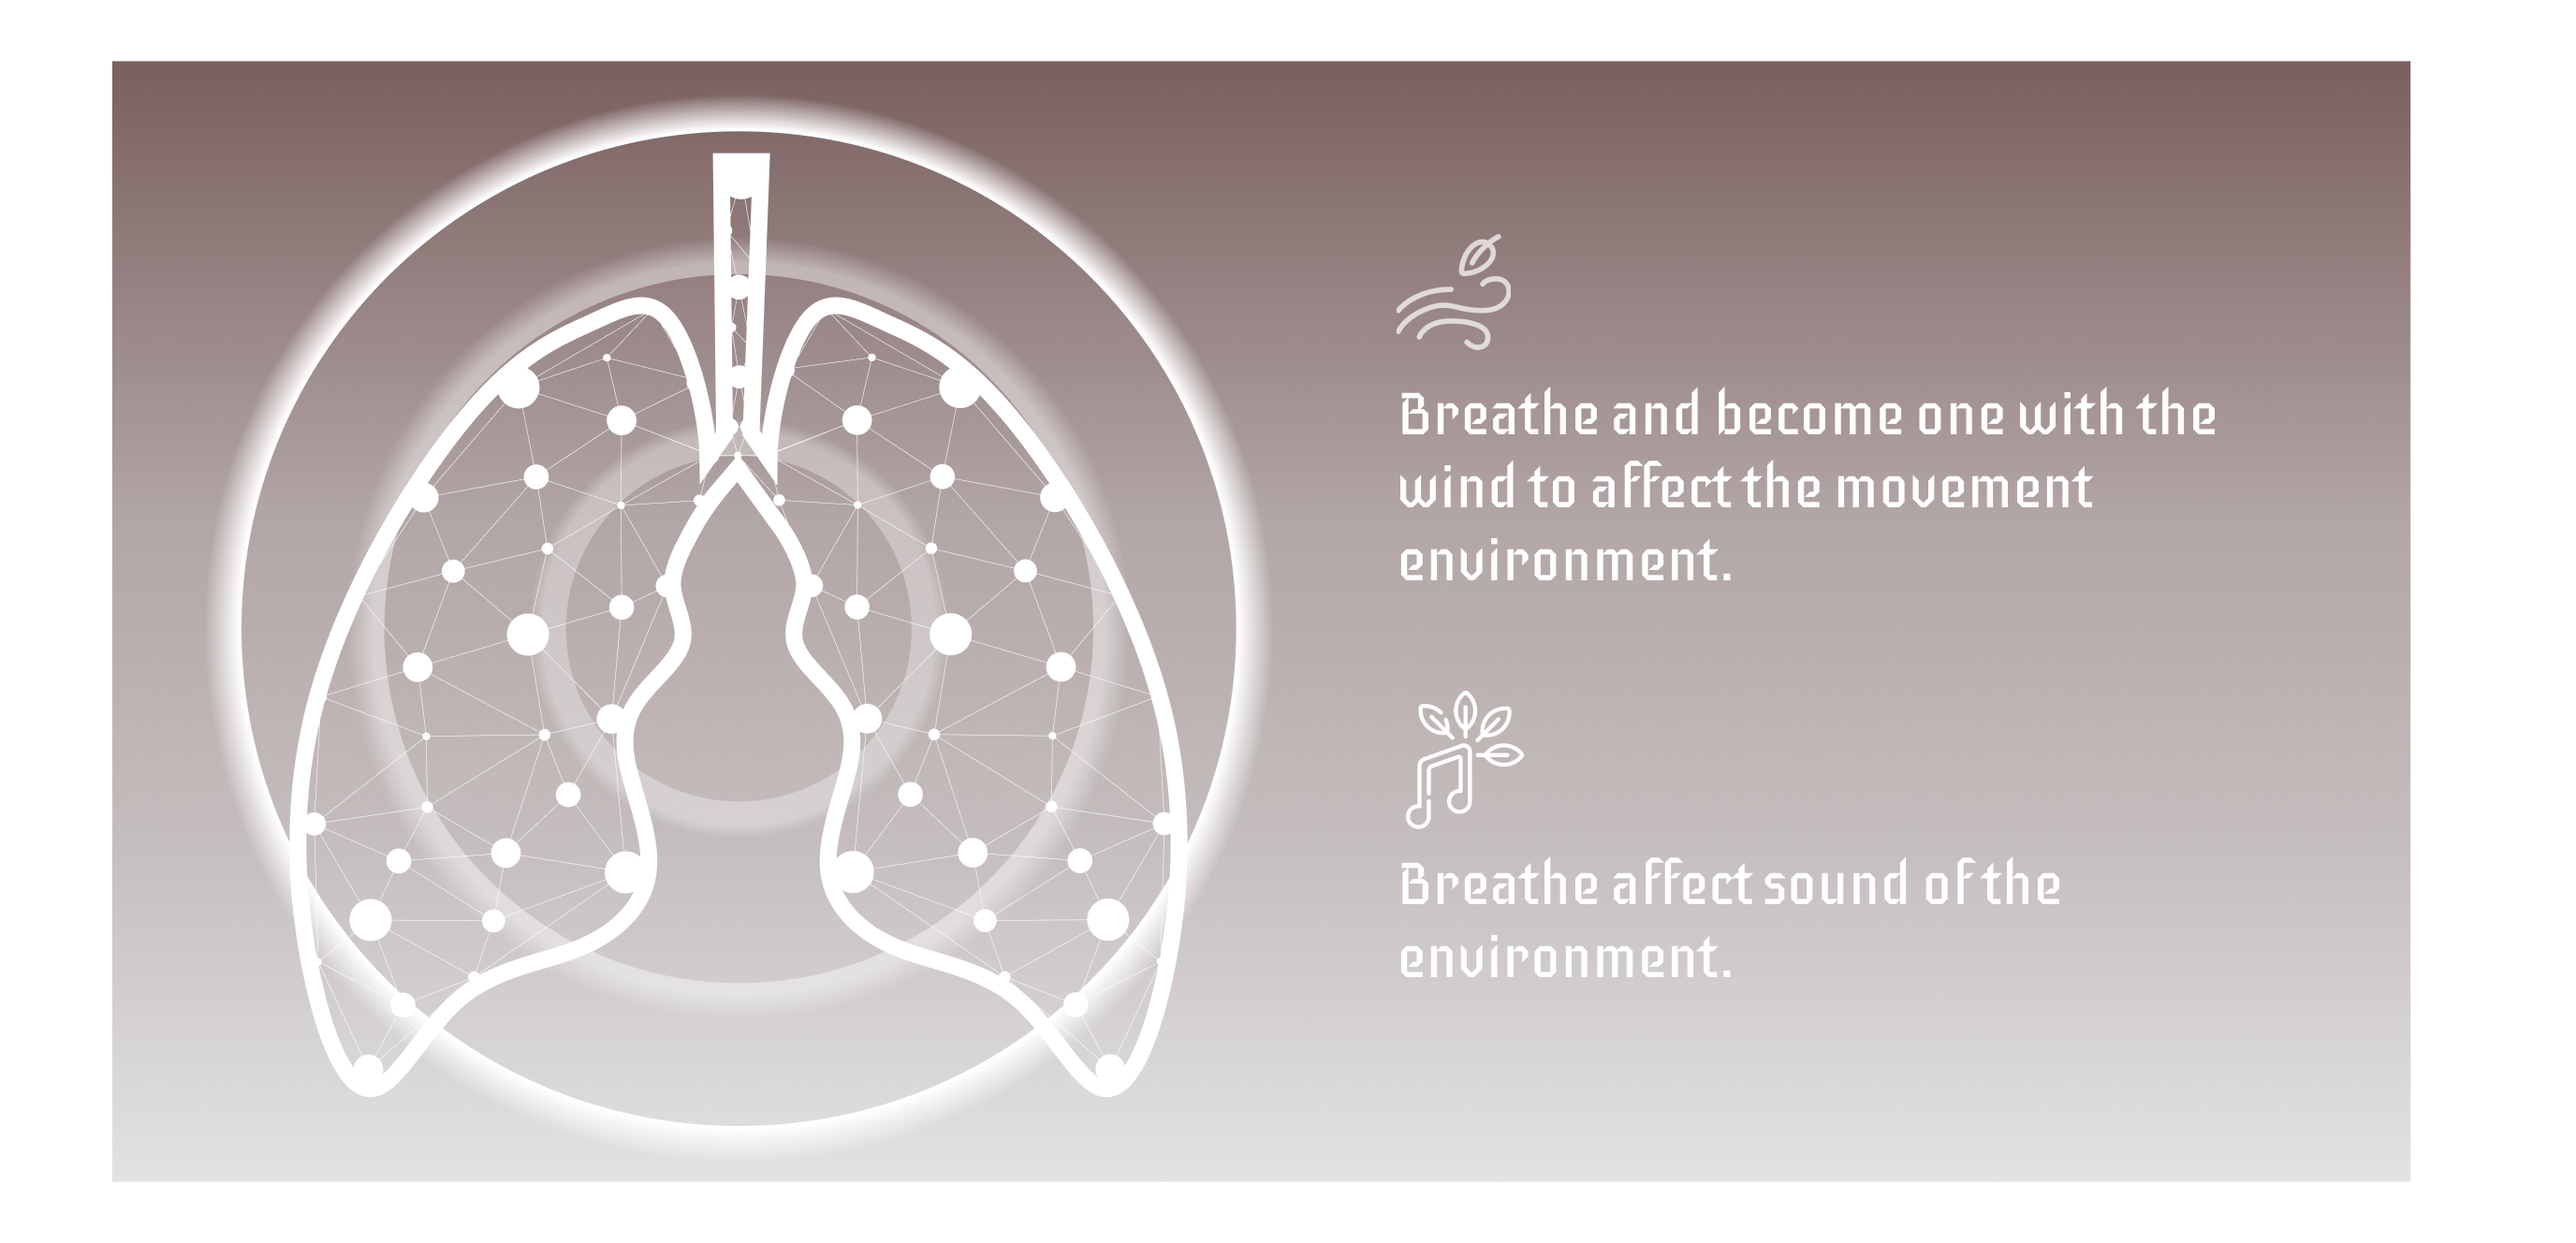
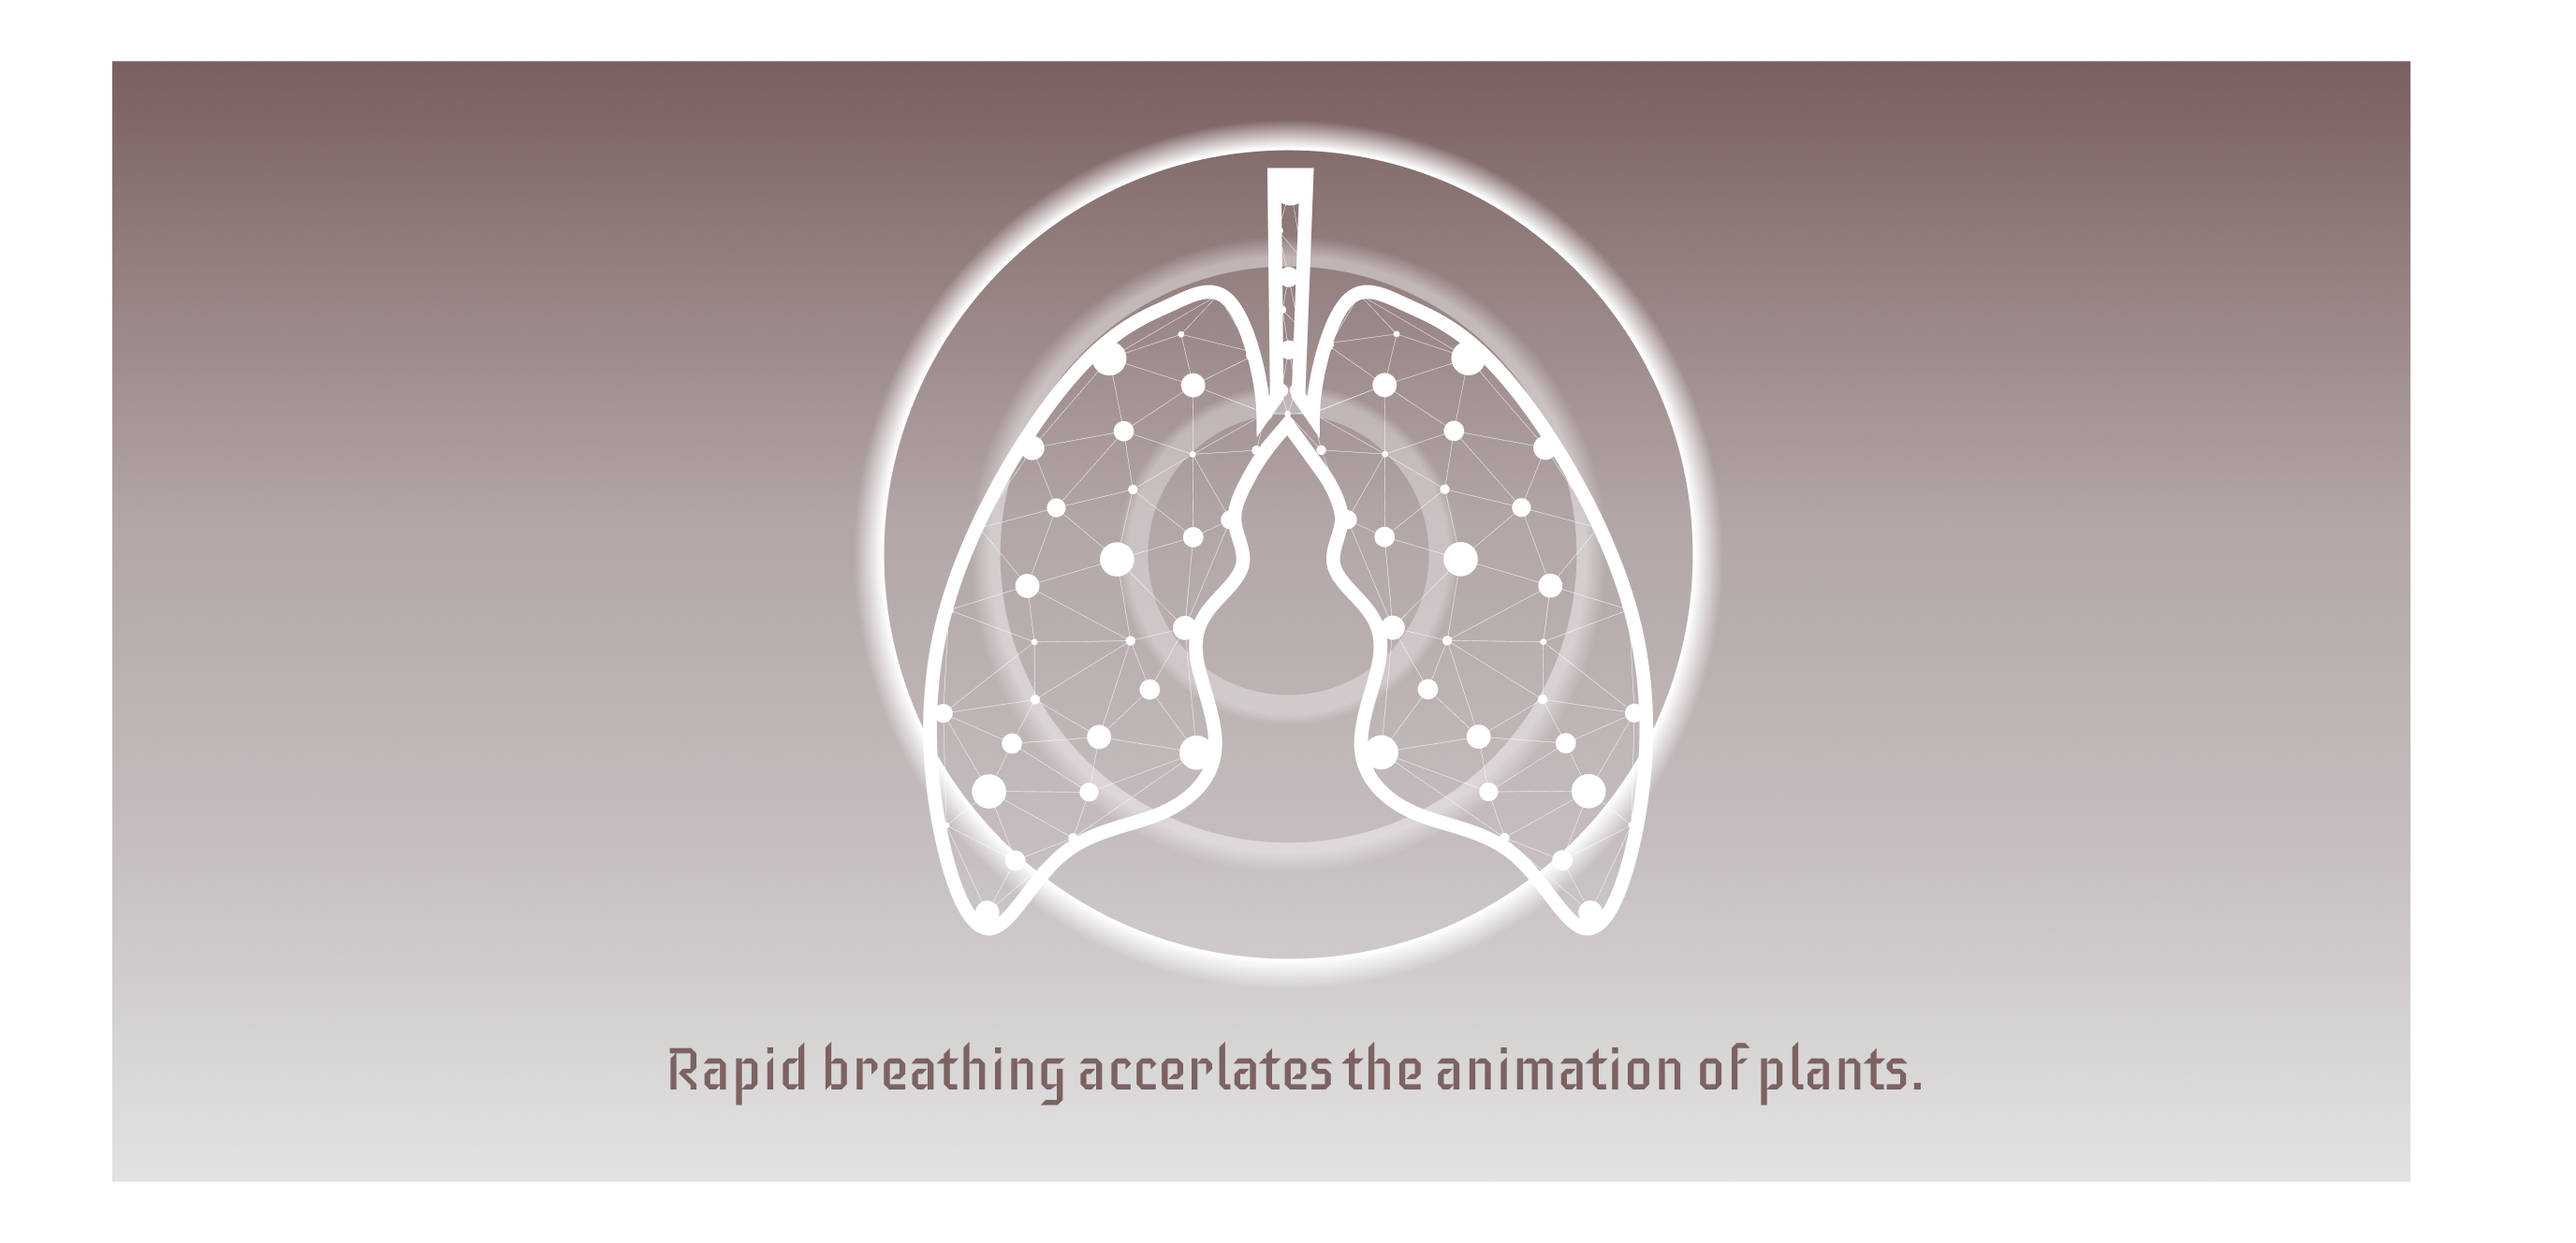
add breath info to ui

Changed region(s): [[0.0625, 0.0617, 0.875, 0.9262]]

diff --git a/Unity_BeeAndYou/Assets/Scripts/BeeAndYouScripts/UI_script.cs b/Unity_BeeAndYou/Assets/Scripts/BeeAndYouScripts/UI_script.cs
@@ -9,6 +9,8 @@ public class UI_script : MonoBehaviour
   public Sprite spriteB;
   public Sprite spriteC;
   public Sprite spriteD;
+    public Sprite spriteD2;
+    public Sprite spriteD3;
   public Sprite spriteE;
   public Sprite spriteF;
   public Sprite spriteG;
@@ -61,6 +63,16 @@ public class UI_script : MonoBehaviour
       spriteRenderer.sprite = spriteD;
     }
 
+    public void D_BreathInfo2()
+    {
+      spriteRenderer.sprite = spriteD2;
+    }
+
+    public void D_BreathInfo3()
+    {
+      spriteRenderer.sprite = spriteD3;
+    }
+
     public void E_FirstSeed()
     {
       canvas.SetActive(false);
@@ -92,9 +104,10 @@ public class UI_script : MonoBehaviour
       screenCounter += 1;
 
       if (screenCounter == 1){B_Controls();}
-      else if (screenCounter == 2){screenCounter = 3;D_BreathInfo();}
-      else if (screenCounter == 3){D_BreathInfo();}
-      else if (screenCounter == 4){E_FirstSeed();}
+      else if (screenCounter == 2){D_BreathInfo();}
+      else if (screenCounter == 3){D_BreathInfo2();}
+      else if (screenCounter == 4){D_BreathInfo3();}
+      else if (screenCounter == 5){E_FirstSeed();}
     }
 
     public void BackButton()
@@ -102,9 +115,10 @@ public class UI_script : MonoBehaviour
       screenCounter -= 1;
 
       if (screenCounter == 1){B_Controls();}
-      else if (screenCounter == 2){screenCounter = 1;B_Controls();}
-      else if (screenCounter == 3){D_BreathInfo();}
-      else if (screenCounter == 4){E_FirstSeed();}
+      else if (screenCounter == 2){D_BreathInfo();}
+      else if (screenCounter == 3){D_BreathInfo2();}
+      else if (screenCounter == 4){D_BreathInfo3();}
+      else if (screenCounter == 5){E_FirstSeed();}
       else if (screenCounter == 0){A_Intro();}
     }
 
